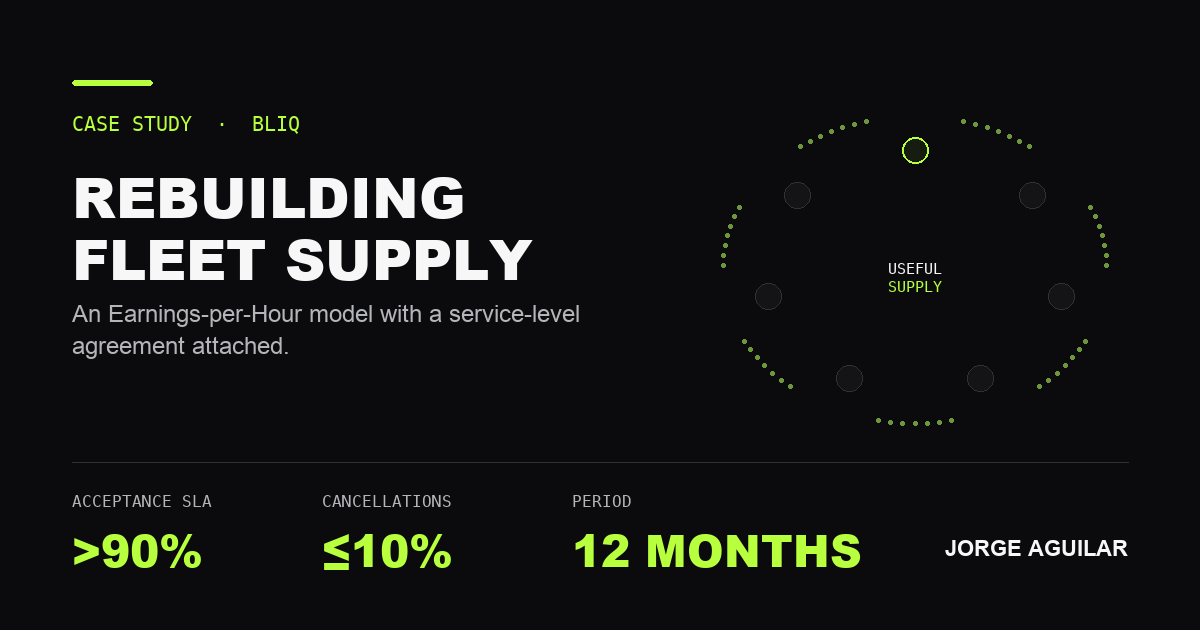
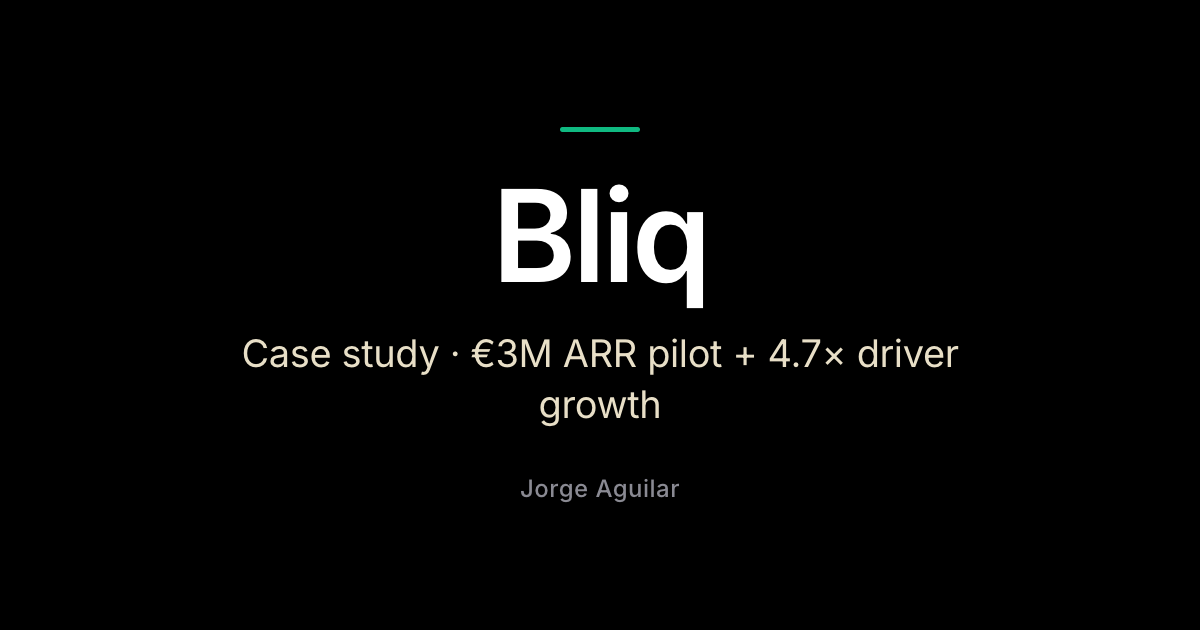
fix(seo): regenerate Bliq/Bolt/Wolt case share images in emerald (×9)
The three case cards were still on the old lime accent, left behind by
the lime→emerald migration. They are now generated from a template that
follows scripts/og-image.html: black ground, emerald rule, white Inter
name, cream subtitle, with the byline kept so a shared card still carries
attribution.

The repo had 3 images, not 9 — one per case, shared by all three
languages, so a German or Spanish share showed an English card. Each
language now has its own, generated by `npm run og:cases` from
scripts/og-case.html, and og:image + twitter:image on the six DE/ES pages
point at them.

Wolt moves from wolt/images/og-wolt-1200x630.jpg to
wolt/og-wolt-1200x630.png — alongside its page like the other two, and
PNG so the text stays sharp; og:image:type follows. Old JPG deleted.

Two figures in the brief did not match the case pages and were corrected
against them: Bolt is activation (not supply), and 25% → 58% took six
weeks in Aug–Sep 2023, not two months.

diff --git a/scripts/build_og_cases.js b/scripts/build_og_cases.js
@@ -1,0 +1,75 @@
+/**
+ * Genera las nueve imagenes para compartir de los casos (3 casos x 3 idiomas):
+ *
+ *   npm run og:cases
+ *
+ * Renderiza scripts/og-case.html a 1200x630 con el Chrome de Puppeteer, igual
+ * que `npm run og`. Para cambiar una imagen se edita la plantilla o esta tabla,
+ * nunca el PNG.
+ *
+ * Las cifras salen de la propia pagina de cada caso: Bolt es "activacion", no
+ * "supply", y el salto 25% -> 58% ocurrio en seis semanas (ago-sep 2023), no en
+ * dos meses. Si un numero cambia en el caso, cambia aqui tambien.
+ */
+const puppeteer = require('puppeteer');
+const path = require('path');
+const fs = require('fs');
+
+const TEMPLATE = path.resolve(__dirname, 'og-case.html');
+const ROOT = path.resolve(__dirname, '..');
+
+const CASES = {
+  bliq: {
+    en: 'Case study · €3M ARR pilot + 4.7× driver growth',
+    de: 'Fallstudie · €3M ARR-Pilot + 4,7× Fahrerwachstum',
+    es: 'Caso de estudio · piloto de €3M ARR + 4,7× crecimiento de conductores',
+  },
+  bolt: {
+    en: 'Case study · activation 25% → 58% in six weeks',
+    de: 'Fallstudie · Aktivierung 25% → 58% in sechs Wochen',
+    es: 'Caso de estudio · activación 25% → 58% en seis semanas',
+  },
+  wolt: {
+    en: 'Case study · 30% procurement savings · Feb 2021–Feb 2023',
+    de: 'Fallstudie · 30% Einkaufsersparnis · Feb. 2021–Feb. 2023',
+    es: 'Caso de estudio · 30% de ahorro en compras · feb. 2021–feb. 2023',
+  },
+};
+
+// Cada idioma guarda su propio PNG junto a su pagina, con el mismo nombre.
+const outPath = (name, lang) =>
+  path.join(ROOT, lang === 'en' ? '' : lang, name, `og-${name}-1200x630.png`);
+
+(async () => {
+  const browser = await puppeteer.launch({ headless: true });
+  const written = [];
+  try {
+    const page = await browser.newPage();
+    await page.setViewport({ width: 1200, height: 630, deviceScaleFactor: 1 });
+    await page.goto(`file://${TEMPLATE}`, { waitUntil: 'networkidle0' });
+    await page.evaluate(() => document.fonts.ready);
+    const ok = await page.evaluate(() => document.fonts.check('600 128px Inter'));
+    if (!ok) throw new Error('Inter no cargo: la imagen saldria con la fuente de sistema');
+
+    for (const [name, subs] of Object.entries(CASES)) {
+      for (const [lang, sub] of Object.entries(subs)) {
+        await page.evaluate((n, s, l) => {
+          document.documentElement.lang = l;
+          document.getElementById('name').textContent = n;
+          document.getElementById('sub').textContent = s;
+        }, name[0].toUpperCase() + name.slice(1), sub, lang);
+
+        const out = outPath(name, lang);
+        fs.mkdirSync(path.dirname(out), { recursive: true });
+        await page.screenshot({ path: out, type: 'png', clip: { x: 0, y: 0, width: 1200, height: 630 } });
+        written.push(out);
+      }
+    }
+  } finally {
+    await browser.close();
+  }
+  for (const f of written) {
+    console.log(`${path.relative(ROOT, f)}  (${(fs.statSync(f).size / 1024).toFixed(1)} KB)`);
+  }
+  console.log(`\n${written.length} case share images generated`);
+})().catch((err) => { console.error(err); process.exit(1); });

diff --git a/scripts/og-case.html b/scripts/og-case.html
@@ -1,0 +1,34 @@
+<!doctype html>
+<!-- Plantilla de la imagen para compartir de cada caso. La renderiza
+     scripts/build_og_cases.js a los nueve PNG (3 casos x 3 idiomas), 1200x630,
+     densidad 1x. Mismo patron que scripts/og-image.html: fondo negro, regla
+     esmeralda, titular blanco y bajada crema. No se sirve: scripts/ esta en
+     .assetsignore. -->
+<html lang="en">
+<head>
+<meta charset="utf-8">
+<style>
+  @font-face{font-family:'Inter';font-style:normal;font-weight:400 900;src:url(../fonts/inter-latin.woff2) format('woff2');}
+  html,body{margin:0;padding:0;}
+  body{
+    width:1200px;height:630px;box-sizing:border-box;
+    background:#000000;
+    /* Centrado y con mucho margen, como la principal: WhatsApp y algunas
+       vistas de LinkedIn recortan la imagen a un cuadrado central. */
+    display:flex;flex-direction:column;align-items:center;justify-content:center;
+    padding:72px 72px;text-align:center;
+    font-family:'Inter',sans-serif;-webkit-font-smoothing:antialiased;
+  }
+  .rule{width:80px;height:5px;border-radius:3px;background:#10B981;margin-bottom:40px;}
+  .name{margin:0;font-size:128px;font-weight:600;line-height:1;letter-spacing:-0.03em;color:#FFFFFF;}
+  .sub{margin:28px 0 0;font-size:38px;font-weight:400;line-height:1.34;letter-spacing:-0.01em;color:#E8DFC7;max-width:800px;}
+  .by{margin:44px 0 0;font-size:24px;font-weight:500;letter-spacing:0.02em;color:#8A8A93;}
+</style>
+</head>
+<body>
+  <div class="rule" aria-hidden="true"></div>
+  <h1 class="name" id="name">Bliq</h1>
+  <p class="sub" id="sub">Case study</p>
+  <p class="by" id="by">Jorge Aguilar</p>
+</body>
+</html>

diff --git a/de/wolt/index.html b/de/wolt/index.html
@@ -20,12 +20,12 @@
 <link rel="alternate" hreflang="es" href="https://jorgeag.com/es/wolt/">
 <link rel="alternate" hreflang="x-default" href="https://jorgeag.com/wolt/">
 <meta property="og:url" content="https://jorgeag.com/de/wolt/">
-<meta property="og:image" content="https://jorgeag.com/wolt/images/og-wolt-1200x630.jpg">
+<meta property="og:image" content="https://jorgeag.com/de/wolt/og-wolt-1200x630.png">
 <meta property="og:image:width" content="1200">
 <meta property="og:image:height" content="630">
-<meta property="og:image:type" content="image/jpeg">
+<meta property="og:image:type" content="image/png">
 <meta name="twitter:url" content="https://jorgeag.com/de/wolt/">
-<meta name="twitter:image" content="https://jorgeag.com/wolt/images/og-wolt-1200x630.jpg">
+<meta name="twitter:image" content="https://jorgeag.com/de/wolt/og-wolt-1200x630.png">
 <link rel="preload" href="/fonts/inter-latin.woff2" as="font" type="font/woff2" crossorigin>
 <link rel="stylesheet" href="/fonts/inter.css">
 <style>

diff --git a/es/wolt/index.html b/es/wolt/index.html
@@ -20,12 +20,12 @@
 <link rel="alternate" hreflang="es" href="https://jorgeag.com/es/wolt/">
 <link rel="alternate" hreflang="x-default" href="https://jorgeag.com/wolt/">
 <meta property="og:url" content="https://jorgeag.com/es/wolt/">
-<meta property="og:image" content="https://jorgeag.com/wolt/images/og-wolt-1200x630.jpg">
+<meta property="og:image" content="https://jorgeag.com/es/wolt/og-wolt-1200x630.png">
 <meta property="og:image:width" content="1200">
 <meta property="og:image:height" content="630">
-<meta property="og:image:type" content="image/jpeg">
+<meta property="og:image:type" content="image/png">
 <meta name="twitter:url" content="https://jorgeag.com/es/wolt/">
-<meta name="twitter:image" content="https://jorgeag.com/wolt/images/og-wolt-1200x630.jpg">
+<meta name="twitter:image" content="https://jorgeag.com/es/wolt/og-wolt-1200x630.png">
 <link rel="preload" href="/fonts/inter-latin.woff2" as="font" type="font/woff2" crossorigin>
 <link rel="stylesheet" href="/fonts/inter.css">
 <style>

diff --git a/wolt/index.html b/wolt/index.html
@@ -20,12 +20,12 @@
 <link rel="alternate" hreflang="es" href="https://jorgeag.com/es/wolt/">
 <link rel="alternate" hreflang="x-default" href="https://jorgeag.com/wolt/">
 <meta property="og:url" content="https://jorgeag.com/wolt/">
-<meta property="og:image" content="https://jorgeag.com/wolt/images/og-wolt-1200x630.jpg">
+<meta property="og:image" content="https://jorgeag.com/wolt/og-wolt-1200x630.png">
 <meta property="og:image:width" content="1200">
 <meta property="og:image:height" content="630">
-<meta property="og:image:type" content="image/jpeg">
+<meta property="og:image:type" content="image/png">
 <meta name="twitter:url" content="https://jorgeag.com/wolt/">
-<meta name="twitter:image" content="https://jorgeag.com/wolt/images/og-wolt-1200x630.jpg">
+<meta name="twitter:image" content="https://jorgeag.com/wolt/og-wolt-1200x630.png">
 <link rel="preload" href="/fonts/inter-latin.woff2" as="font" type="font/woff2" crossorigin>
 <link rel="stylesheet" href="/fonts/inter.css">
 <style>

diff --git a/de/bliq/index.html b/de/bliq/index.html
@@ -20,12 +20,12 @@
 <link rel="alternate" hreflang="es" href="https://jorgeag.com/es/bliq/">
 <link rel="alternate" hreflang="x-default" href="https://jorgeag.com/bliq/">
 <meta property="og:url" content="https://jorgeag.com/de/bliq/">
-<meta property="og:image" content="https://jorgeag.com/bliq/og-bliq-1200x630.png">
+<meta property="og:image" content="https://jorgeag.com/de/bliq/og-bliq-1200x630.png">
 <meta property="og:image:width" content="1200">
 <meta property="og:image:height" content="630">
 <meta property="og:image:type" content="image/png">
 <meta name="twitter:url" content="https://jorgeag.com/de/bliq/">
-<meta name="twitter:image" content="https://jorgeag.com/bliq/og-bliq-1200x630.png">
+<meta name="twitter:image" content="https://jorgeag.com/de/bliq/og-bliq-1200x630.png">
 <link rel="preload" href="/fonts/inter-latin.woff2" as="font" type="font/woff2" crossorigin>
 <link rel="stylesheet" href="/fonts/inter.css">
 <style>

diff --git a/de/bolt/index.html b/de/bolt/index.html
@@ -20,12 +20,12 @@
 <link rel="alternate" hreflang="es" href="https://jorgeag.com/es/bolt/">
 <link rel="alternate" hreflang="x-default" href="https://jorgeag.com/bolt/">
 <meta property="og:url" content="https://jorgeag.com/de/bolt/">
-<meta property="og:image" content="https://jorgeag.com/bolt/og-bolt-1200x630.png">
+<meta property="og:image" content="https://jorgeag.com/de/bolt/og-bolt-1200x630.png">
 <meta property="og:image:width" content="1200">
 <meta property="og:image:height" content="630">
 <meta property="og:image:type" content="image/png">
 <meta name="twitter:url" content="https://jorgeag.com/de/bolt/">
-<meta name="twitter:image" content="https://jorgeag.com/bolt/og-bolt-1200x630.png">
+<meta name="twitter:image" content="https://jorgeag.com/de/bolt/og-bolt-1200x630.png">
 <link rel="preload" href="/fonts/inter-latin.woff2" as="font" type="font/woff2" crossorigin>
 <link rel="stylesheet" href="/fonts/inter.css">
 <style>

diff --git a/es/bliq/index.html b/es/bliq/index.html
@@ -20,12 +20,12 @@
 <link rel="alternate" hreflang="es" href="https://jorgeag.com/es/bliq/">
 <link rel="alternate" hreflang="x-default" href="https://jorgeag.com/bliq/">
 <meta property="og:url" content="https://jorgeag.com/es/bliq/">
-<meta property="og:image" content="https://jorgeag.com/bliq/og-bliq-1200x630.png">
+<meta property="og:image" content="https://jorgeag.com/es/bliq/og-bliq-1200x630.png">
 <meta property="og:image:width" content="1200">
 <meta property="og:image:height" content="630">
 <meta property="og:image:type" content="image/png">
 <meta name="twitter:url" content="https://jorgeag.com/es/bliq/">
-<meta name="twitter:image" content="https://jorgeag.com/bliq/og-bliq-1200x630.png">
+<meta name="twitter:image" content="https://jorgeag.com/es/bliq/og-bliq-1200x630.png">
 <link rel="preload" href="/fonts/inter-latin.woff2" as="font" type="font/woff2" crossorigin>
 <link rel="stylesheet" href="/fonts/inter.css">
 <style>

diff --git a/es/bolt/index.html b/es/bolt/index.html
@@ -20,12 +20,12 @@
 <link rel="alternate" hreflang="es" href="https://jorgeag.com/es/bolt/">
 <link rel="alternate" hreflang="x-default" href="https://jorgeag.com/bolt/">
 <meta property="og:url" content="https://jorgeag.com/es/bolt/">
-<meta property="og:image" content="https://jorgeag.com/bolt/og-bolt-1200x630.png">
+<meta property="og:image" content="https://jorgeag.com/es/bolt/og-bolt-1200x630.png">
 <meta property="og:image:width" content="1200">
 <meta property="og:image:height" content="630">
 <meta property="og:image:type" content="image/png">
 <meta name="twitter:url" content="https://jorgeag.com/es/bolt/">
-<meta name="twitter:image" content="https://jorgeag.com/bolt/og-bolt-1200x630.png">
+<meta name="twitter:image" content="https://jorgeag.com/es/bolt/og-bolt-1200x630.png">
 <link rel="preload" href="/fonts/inter-latin.woff2" as="font" type="font/woff2" crossorigin>
 <link rel="stylesheet" href="/fonts/inter.css">
 <style>
